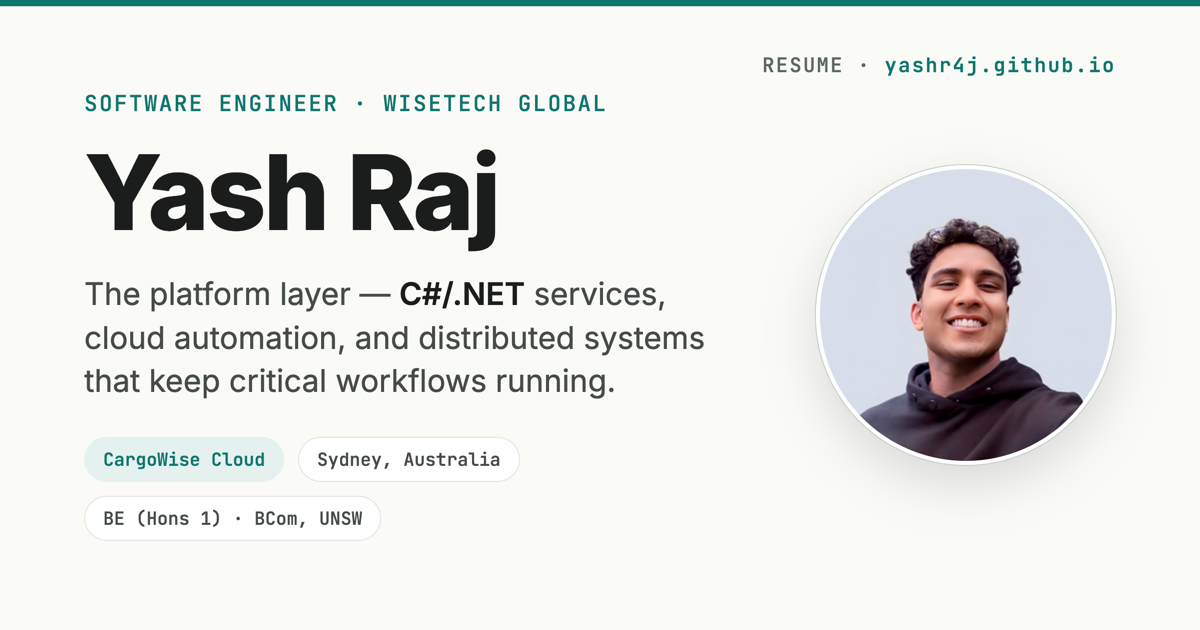
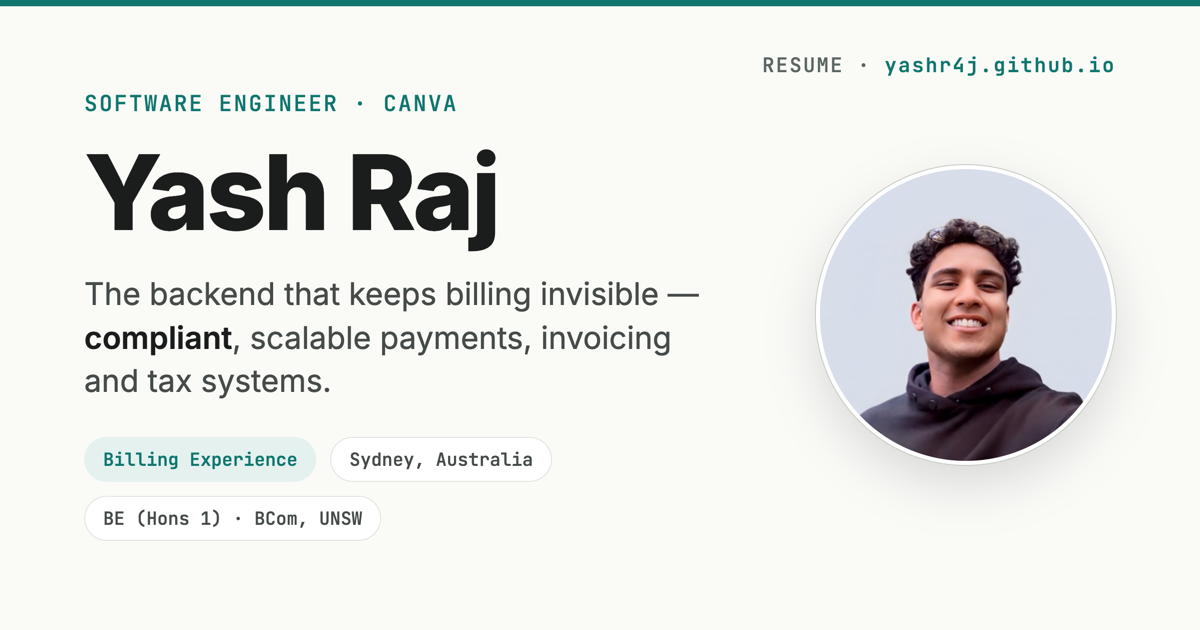
Update role to Canva Billing Experience (backend engineer)
Reflects move from WiseTech Global (.NET) to Canva as a backend engineer
on the Billing Experience team (Revenue Platform), Feb 2026.

- experience.yml: add Canva current role; WiseTech → Feb 2023–Feb 2026 (past)
- hero + about summary + meta/OG/Twitter/JSON-LD: Canva billing/backend identity
- skills.yml: add Domains group + backend stack (Java/Spring, protobuf, Finagle,
  DynamoDB, Aurora, SQS/SNS, Bazel, Buildkite)
- images/og.png: regenerated social card for Canva

Public-safe phrasing: no dollar figures, vendor names, codenames, or ticket IDs.

Changed region(s): [[0.0617, 0.4222, 0.5858, 0.6333], [0.0925, 0.6937, 0.4625, 0.754], [0.3083, 0.1508, 0.5242, 0.181]]

diff --git a/_includes/head.html b/_includes/head.html
@@ -3,8 +3,8 @@
   <meta http-equiv="X-UA-Compatible" content="IE=edge">
   <meta name="viewport" content="width=device-width, initial-scale=1">
 
-  <title>Yash Raj · Software Engineer — C#/.NET, Cloud &amp; Distributed Systems</title>
-  <meta name="description" content="Yash Raj is a software engineer at WiseTech Global in Sydney, building reliable C#/.NET platform services, cloud automation, and distributed systems.">
+  <title>Yash Raj · Software Engineer — Backend, Billing &amp; Distributed Systems</title>
+  <meta name="description" content="Yash Raj is a software engineer on Canva's Billing Experience team in Sydney, building compliant, scalable billing, invoicing and tax systems in Java on AWS.">
   <link rel="canonical" href="{{ site.url }}{{ site.baseurl }}/">
 
   <!-- Theme (must run before paint to avoid FOUC; first visit honours OS preference) -->
@@ -18,18 +18,18 @@
   <!-- Open Graph -->
   <meta property="og:type" content="profile">
   <meta property="og:title" content="Yash Raj · Software Engineer">
-  <meta property="og:description" content="C#/.NET platform engineering, cloud infrastructure, and distributed systems at WiseTech Global (CargoWise Cloud).">
+  <meta property="og:description" content="Backend engineering on Canva's Billing Experience team — compliant, scalable billing, invoicing and tax systems in Java on AWS.">
   <meta property="og:url" content="{{ site.url }}{{ site.baseurl }}/">
   <meta property="og:site_name" content="Yash Raj">
   <meta property="og:image" content="{{ site.url }}/images/og.png">
   <meta property="og:image:width" content="1200">
   <meta property="og:image:height" content="630">
-  <meta property="og:image:alt" content="Yash Raj — Software Engineer at WiseTech Global">
+  <meta property="og:image:alt" content="Yash Raj — Software Engineer at Canva">
 
   <!-- Twitter -->
   <meta name="twitter:card" content="summary_large_image">
   <meta name="twitter:title" content="Yash Raj · Software Engineer">
-  <meta name="twitter:description" content="C#/.NET platform engineering, cloud infrastructure, and distributed systems at WiseTech Global.">
+  <meta name="twitter:description" content="Backend engineering on Canva's Billing Experience team — billing, invoicing and tax systems in Java on AWS.">
   <meta name="twitter:image" content="{{ site.url }}/images/og.png">
 
   <meta name="theme-color" content="#FAFAF7" media="(prefers-color-scheme: light)">
@@ -53,7 +53,7 @@
     "@type": "Person",
     "name": "Yash Raj",
     "jobTitle": "Software Engineer",
-    "worksFor": { "@type": "Organization", "name": "WiseTech Global" },
+    "worksFor": { "@type": "Organization", "name": "Canva" },
     "alumniOf": { "@type": "CollegeOrUniversity", "name": "University of New South Wales" },
     "email": "mailto:yash.raj2@outlook.com",
     "telephone": "+61403016557",

diff --git a/_includes/hero.html b/_includes/hero.html
@@ -1,12 +1,12 @@
 <section class="hero" id="top">
   <div class="hero__inner">
     <img class="hero__avatar" src="images/avatar.jpg" alt="Portrait of Yash Raj" width="400" height="400" loading="eager" fetchpriority="high">
-    <p class="hero__eyebrow">Software Engineer · WiseTech Global</p>
+    <p class="hero__eyebrow">Software Engineer · Canva</p>
     <h1 class="hero__name">Yash Raj</h1>
-    <p class="hero__tagline">I build the platform layer — C#/.NET services, cloud automation, and distributed systems that keep critical workflows running.</p>
-    <p class="hero__value">Currently hardening secure remote access and database recovery on WiseTech's CargoWise Cloud.</p>
+    <p class="hero__tagline">I build the backend that keeps billing invisible — compliant, scalable payments, invoicing and tax systems.</p>
+    <p class="hero__value">On Canva's Billing Experience team (Revenue Platform), working across tax, invoicing and payments in Java on AWS.</p>
     <ul class="hero__meta">
-      <li class="hero__meta-item">CargoWise Cloud · WiseTech Global</li>
+      <li class="hero__meta-item">Billing Experience · Canva</li>
       <li class="hero__meta-item">Sydney, Australia</li>
       <li class="hero__meta-item">BE Software Engineering (Hons 1) · BCom Finance, UNSW</li>
     </ul>

diff --git a/_includes/section-experience.html b/_includes/section-experience.html
@@ -3,7 +3,7 @@
     <header class="section__header reveal">
       <p class="section__eyebrow" aria-hidden="true">02</p>
       <h2 class="section__title" id="experience-title">Experience</h2>
-      <p class="section__intro">Platform engineering at scale — plus a habit of teaching what I know.</p>
+      <p class="section__intro">Backend engineering across billing and platform — plus a habit of teaching what I know.</p>
     </header>
     <div class="section__body">
       <ol class="timeline">
